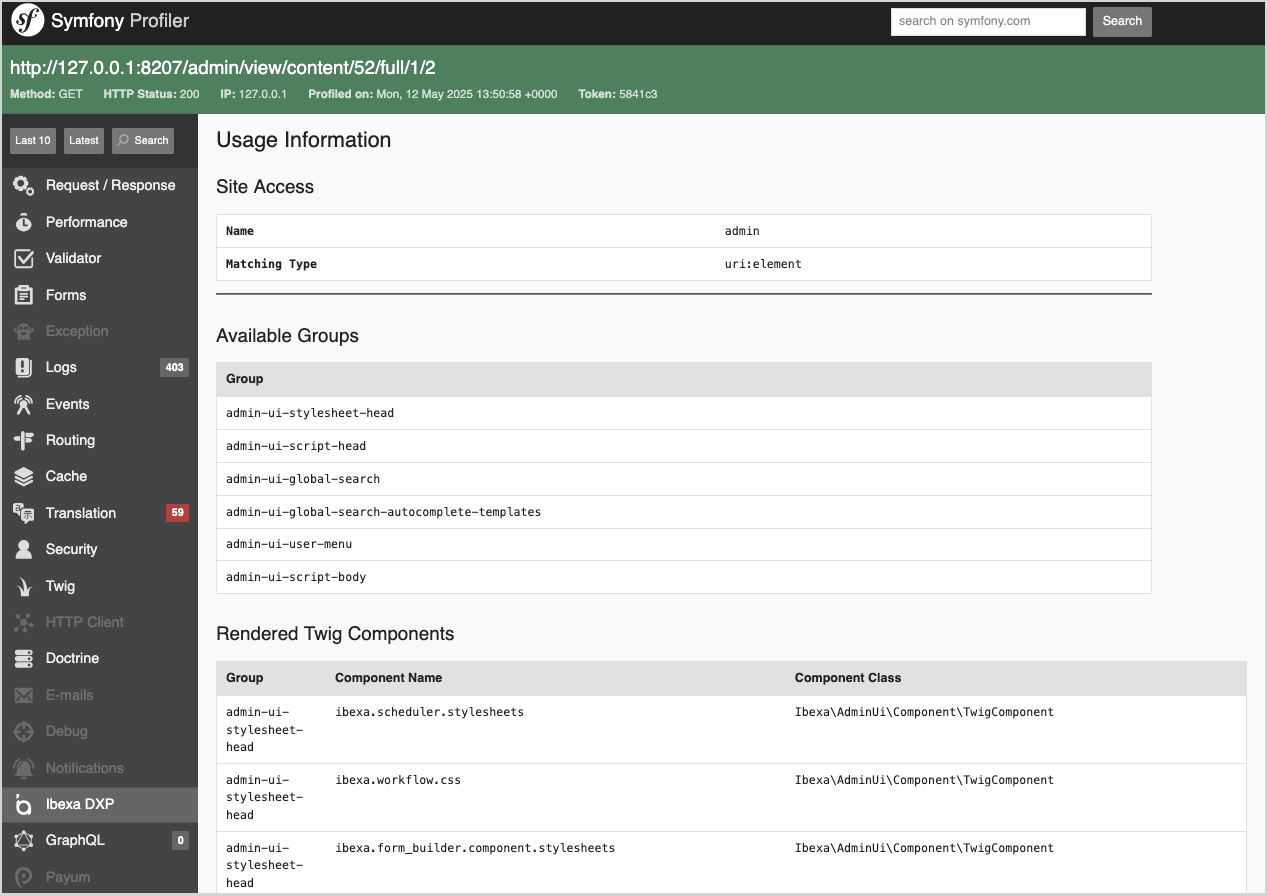
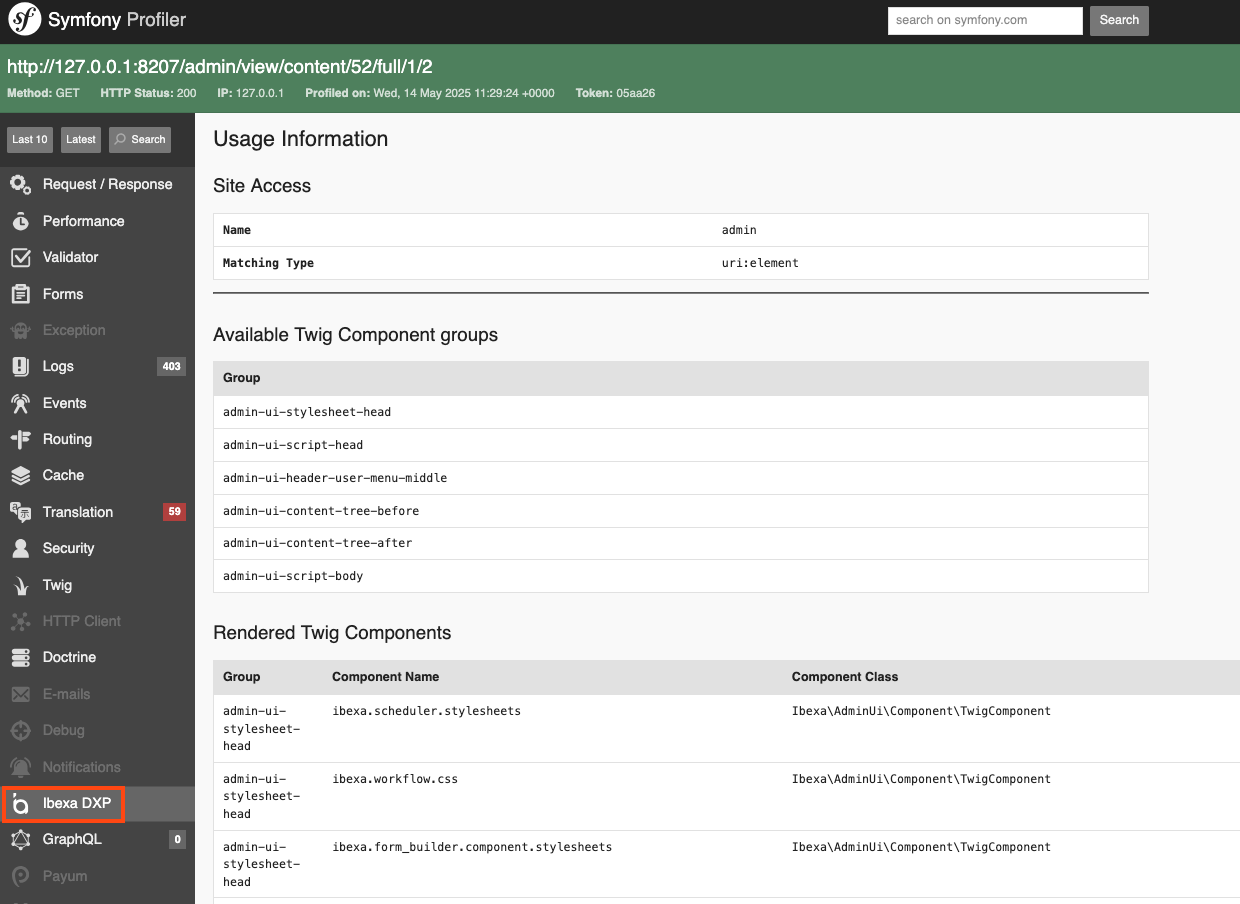
Updated screenshot

diff --git a/docs/templating/components.md b/docs/templating/components.md
@@ -119,7 +119,7 @@ You can modify the Component rendering process by:
 
 ## Symfony Profiler integration
 
-Use the built-in integration with [Symfony Profiler]([[= symfony_doc =]]/profiler.html) to see which Twig Components have been rendered in a given view. In the [[= product_name =]] tab you can find:
+Use the built-in integration with [Symfony Profiler]([[= symfony_doc =]]/profiler.html) to see which Twig Components have been rendered in a given view. In the **[[= product_name =]]** tab you can find:
 
 - the list of all rendered Twig Component groups by the given view, including empty groups
 - the list of rendered Twig Components with information about the group they belong to
